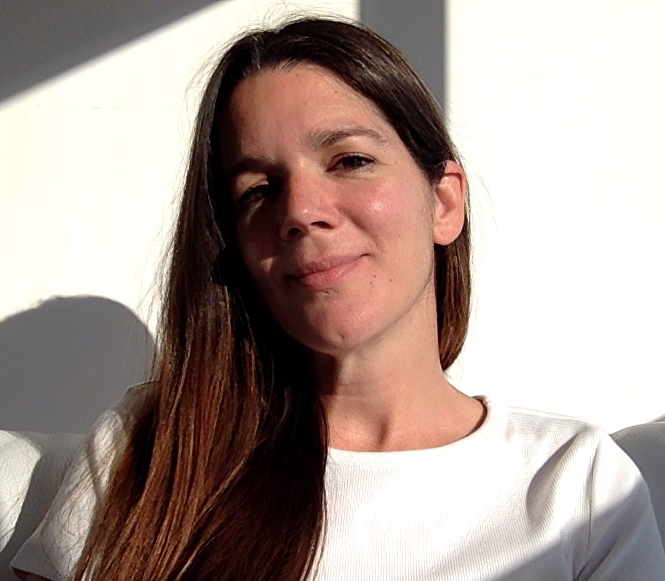
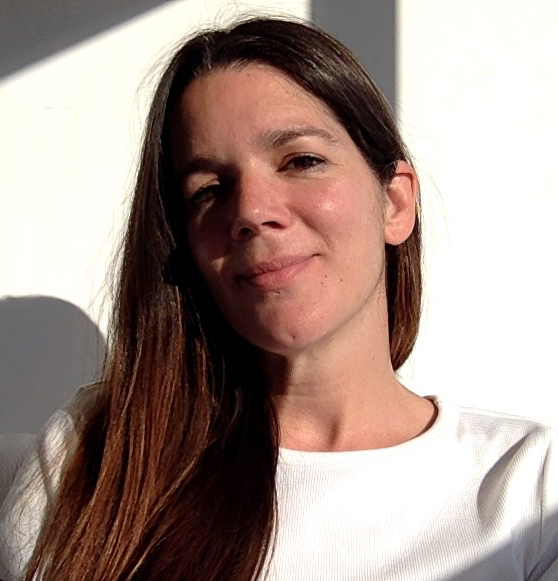
cambio foto mj

diff --git a/index.html b/index.html
@@ -47,25 +47,34 @@
         <article class="team wrapper">
           <h2 class="title-team">EQUIPO</h2>
           <p>
-            Nuestro espíritu indómito nos invita a salir de nuestra zona de confort para adentrarnos en este mundo de cambio constante y enfrentarnos a un reto nuevo cada día. Otros se sentirían incómodos en esta situación. Nosotras disfrutamos del camino.
+            Nuestro espíritu indómito nos invita a salir de nuestra zona de
+            confort para adentrarnos en este mundo de cambio constante y
+            enfrentarnos a un reto nuevo cada día. Otros se sentirían incómodos
+            en esta situación. Nosotras disfrutamos del camino.
           </p>
           <p>
-            Tenemos instinto y garra para darte justo lo que necesitas con la máxima innovación. 
+            Tenemos instinto y garra para darte justo lo que necesitas con la
+            máxima innovación.
           </p>
           <div class="bite"></div>
         </article>
-        
+
         <article class="strengths-weaknesses wrapper">
           <div class="strengths wrapper">
             <h3 class="title-secondary">Fortalezas</h3>
             <p>
-             Nuestras diferentes trayectorias nos convierten en un equipo multidisciplinar con una amplia riqueza de competencias. Tenemos pasión por generar nuevas ideas, propuestas y soluciones, ¡no le ponemos freno a la creatividad!
+              Nuestras diferentes trayectorias nos convierten en un equipo
+              multidisciplinar con una amplia riqueza de competencias. Tenemos
+              pasión por generar nuevas ideas, propuestas y soluciones, ¡no le
+              ponemos freno a la creatividad!
             </p>
           </div>
           <div class="weaknesses wrapper">
             <h3 class="title-secondary">Debilidades</h3>
             <p>
-              Puede que no tengamos aún mucha experiencia, pero si nos confías tu proyecto prometemos hacerlo con toda la dedicación y pasión del mundo y no pararemos hasta que quedes encantada/o.
+              Puede que no tengamos aún mucha experiencia, pero si nos confías
+              tu proyecto prometemos hacerlo con toda la dedicación y pasión del
+              mundo y no pararemos hasta que quedes encantada/o.
             </p>
           </div>
           <div id="who"></div>
@@ -79,38 +88,38 @@
             <img src="./images/Team/barbara.jpg" alt="foto barbara" />
           </div>
           <div class="info-container">
-          <h3 class="title-people">Bárbara Sacristán</h3>
-          <p>
-            Bárbara B. Sacristán, nacida en Tenerife y madrileña de adopción.
-            Soy técnica superior en Educación Infantil y estudiante de flauta
-            travesera, aunque toda mi experiencia laboral ha sido como comercial
-            y auxiliar administrativa. En mi tiempo libre, lo que más me gusta
-            es la música, estar con los míos y un buen libro.
-          </p>
-          <span class="sm">
-            <a
-              href="https://twitter.com/bbeatrizsi"
-              text="Twitter"
-              target="_blank"
-              ><i class="fab fa-twitter icons"></i
-            ></a>
-            <a
-              href="https://www.linkedin.com/in/bárbara-b-sacristán-ibáñez-26485b104/"
-              text="Linkedin"
-              target="_blank"
-              ><i class="fab fa-linkedin-in icons"></i
-            ></a>
-            <a
-              href="https://github.com/BbeatrizSI"
-              text="GitHub"
-              target="_blank"
-              ><i class="fab fa-github-alt icons"></i
-            ></a>
-            <a href="mailto:bbeatriz@gmail.com" text="Correo" target="_blank"
-              ><i class="fas fa-envelope icons"></i
-            ></a>
-          </span>
-        </div>
+            <h3 class="title-people">Bárbara Sacristán</h3>
+            <p>
+              Bárbara B. Sacristán, nacida en Tenerife y madrileña de adopción.
+              Soy técnica superior en Educación Infantil y estudiante de flauta
+              travesera, aunque toda mi experiencia laboral ha sido como
+              comercial y auxiliar administrativa. En mi tiempo libre, lo que
+              más me gusta es la música, estar con los míos y un buen libro.
+            </p>
+            <span class="sm">
+              <a
+                href="https://twitter.com/bbeatrizsi"
+                text="Twitter"
+                target="_blank"
+                ><i class="fab fa-twitter icons"></i
+              ></a>
+              <a
+                href="https://www.linkedin.com/in/bárbara-b-sacristán-ibáñez-26485b104/"
+                text="Linkedin"
+                target="_blank"
+                ><i class="fab fa-linkedin-in icons"></i
+              ></a>
+              <a
+                href="https://github.com/BbeatrizSI"
+                text="GitHub"
+                target="_blank"
+                ><i class="fab fa-github-alt icons"></i
+              ></a>
+              <a href="mailto:bbeatriz@gmail.com" text="Correo" target="_blank"
+                ><i class="fas fa-envelope icons"></i
+              ></a>
+            </span>
+          </div>
         </article>
 
         <article class="card right">
@@ -118,35 +127,39 @@
             <img src="./images/Team/elena.jpeg" alt="foto elena" />
           </div>
           <div class="info-container">
-          <h3 class="title-people">Elena Valenzuela</h3>
-          <p>
-            ¡Hola, soy Elena!, pero puedes llamarme Hel, Lenú o como prefieras.
-            De Sevilla y más rica gracias a mi paso por Barcelona, China y
-            Madrid. Ex marketeer y actual estudiante front-end motivada. Me
-            gustan el deporte y los helados a partes iguales, menos mal...
-          </p>
-          <span class="sm">
-            <a href="https://twitter.com/" text="Twitter" target="_blank"
-              ><i class="fab fa-twitter icons"></i
-            ></a>
-            <a
-              href="https://www.linkedin.com/in/elena-valenzuela-guerrero/
+            <h3 class="title-people">Elena Valenzuela</h3>
+            <p>
+              ¡Hola, soy Elena!, pero puedes llamarme Hel, Lenú o como
+              prefieras. De Sevilla y más rica gracias a mi paso por Barcelona,
+              China y Madrid. Ex marketeer y actual estudiante front-end
+              motivada. Me gustan el deporte y los helados a partes iguales,
+              menos mal...
+            </p>
+            <span class="sm">
+              <a href="https://twitter.com/" text="Twitter" target="_blank"
+                ><i class="fab fa-twitter icons"></i
+              ></a>
+              <a
+                href="https://www.linkedin.com/in/elena-valenzuela-guerrero/
               "
-              text="Linkedin"
-              target="_blank"
-              ><i class="fab fa-linkedin-in icons"></i
-            ></a>
-            <a href="https://github.com/elevalgue" text="GitHub" target="_blank"
-              ><i class="fab fa-github-alt icons"></i
-            ></a>
-            <a
-              href="mailto:elena.valenzuela.guerrero@gmail.com"
-              text="Correo"
-              target="_blank"
-              ><i class="fas fa-envelope icons"></i
-            ></a>
-          </span>
-        </div>
+                text="Linkedin"
+                target="_blank"
+                ><i class="fab fa-linkedin-in icons"></i
+              ></a>
+              <a
+                href="https://github.com/elevalgue"
+                text="GitHub"
+                target="_blank"
+                ><i class="fab fa-github-alt icons"></i
+              ></a>
+              <a
+                href="mailto:elena.valenzuela.guerrero@gmail.com"
+                text="Correo"
+                target="_blank"
+                ><i class="fas fa-envelope icons"></i
+              ></a>
+            </span>
+          </div>
         </article>
 
         <article class="card left">
@@ -154,34 +167,34 @@
             <img src="./images/Team/maria-ozamiz.jpg" alt="foto maria" />
           </div>
           <div class="info-container">
-          <h3 class="title-people">María Ozámiz</h3>
-          <p>
-            Estudiante de front-end con 8 años de experiencia en arte
-            contemporáneo y museos. Actualmente resido en Vigo (según algunos,
-            la mejor ciudad del mundo). Lo que más me gusta es jugar al Rayman
-            Legends.
-          </p>
-          <span class="sm">
-            <a href="https://twitter.com/" text="Twitter" target="_blank"
-              ><i class="fab fa-twitter icons"></i
-            ></a>
-            <a
-              href="https://www.linkedin.com/in/mariaozamiz"
-              text="Linkedin"
-              target="_blank"
-              ><i class="fab fa-linkedin-in icons"></i
-            ></a>
-            <a
-              href="https://github.com/mariaozamiz"
-              text="GitHub"
-              target="_blank"
-              ><i class="fab fa-github-alt icons"></i
-            ></a>
-            <a href="mailto:ozamiz.m@gmail.com" text="Correo" target="_blank"
-              ><i class="fas fa-envelope icons"></i
-            ></a>
-          </span>
-        </div>
+            <h3 class="title-people">María Ozámiz</h3>
+            <p>
+              Estudiante de front-end con 8 años de experiencia en arte
+              contemporáneo y museos. Actualmente resido en Vigo (según algunos,
+              la mejor ciudad del mundo). Lo que más me gusta es jugar al Rayman
+              Legends.
+            </p>
+            <span class="sm">
+              <a href="https://twitter.com/" text="Twitter" target="_blank"
+                ><i class="fab fa-twitter icons"></i
+              ></a>
+              <a
+                href="https://www.linkedin.com/in/mariaozamiz"
+                text="Linkedin"
+                target="_blank"
+                ><i class="fab fa-linkedin-in icons"></i
+              ></a>
+              <a
+                href="https://github.com/mariaozamiz"
+                text="GitHub"
+                target="_blank"
+                ><i class="fab fa-github-alt icons"></i
+              ></a>
+              <a href="mailto:ozamiz.m@gmail.com" text="Correo" target="_blank"
+                ><i class="fas fa-envelope icons"></i
+              ></a>
+            </span>
+          </div>
         </article>
 
         <article class="card right">
@@ -189,31 +202,34 @@
             <img src="./images/Team/mariajo.jpg" alt="foto mj" />
           </div>
           <div class="info-container">
-          <h3 class="title-people">María José Plaza</h3>
-          <p>
-            Extremeña afincada en Mallorca ;) Licenciada
-            en Comunicación Audiovisual con experiencia en producción audiovisual pero
-            más recientemente en RRHH. Lo que más me gusta es la música y la
-            comida.
-          </p>
-          <span class="sm">
-            <a href="https://twitter.com/" text="Twitter" target="_blank"
-              ><i class="fab fa-twitter icons"></i
-            ></a>
-            <a
-              href="https://www.linkedin.com/in/mariajops"
-              text="Linkedin"
-              target="_blank"
-              ><i class="fab fa-linkedin-in icons"></i
-            ></a>
-            <a href="https://github.com/mariajop" text="GitHub" target="_blank"
-              ><i class="fab fa-github-alt icons"></i
-            ></a>
-            <a href="mailto:mariajops@gmail.com" text="Correo" target="_blank"
-              ><i class="fas fa-envelope icons"></i
-            ></a>
-          </span>
-        </div>
+            <h3 class="title-people">María José Plaza</h3>
+            <p>
+              Extremeña afincada en Mallorca, licenciada en Comunicación
+              Audiovisual. Con experiencia en producción y edición de vídeo,
+              aunque más recientemente en RRHH y ahora estudiante de front-end.
+              Lo que más me gusta es la música y la comida.
+            </p>
+            <span class="sm">
+              <a href="https://twitter.com/" text="Twitter" target="_blank"
+                ><i class="fab fa-twitter icons"></i
+              ></a>
+              <a
+                href="https://www.linkedin.com/in/mariajops"
+                text="Linkedin"
+                target="_blank"
+                ><i class="fab fa-linkedin-in icons"></i
+              ></a>
+              <a
+                href="https://github.com/mariajop"
+                text="GitHub"
+                target="_blank"
+                ><i class="fab fa-github-alt icons"></i
+              ></a>
+              <a href="mailto:mariajops@gmail.com" text="Correo" target="_blank"
+                ><i class="fas fa-envelope icons"></i
+              ></a>
+            </span>
+          </div>
         </article>
 
         <article class="card left">
@@ -221,45 +237,44 @@
             <img src="./images/Team/sandra.png" alt="foto sandra" />
           </div>
           <div class="info-container">
-          <h3 class="title-people">Sandra Tapia</h3>
-          <p>
-            Me llamo Sandra y soy de Madrid, siempre he vivido aquí. Estudié
-            Comercio Internacional, he trabajado en los Departamentos de
-            Importación y Compras de diferentes empresas. Me encanta nadar,
-            bucear, reirme, escuchar música y me apasiona el helado de chocolate
-            :)
-          </p>
-          <span class="sm">
-            <a href="https://twitter.com/" text="Twitter" target="_blank"
-              ><i class="fab fa-twitter icons"></i
-            ></a>
-            <a
-              href="https://www.linkedin.com/in/sandra-tapia-nieto-88a174106/"
-              text="Linkedin"
-              target="_blank"
-              ><i class="fab fa-linkedin-in icons"></i
-            ></a>
-            <a
-              href="https://github.com/sandra1894"
-              text="GitHub"
-              target="_blank"
-              ><i class="fab fa-github-alt icons"></i
-            ></a>
-            <a
-              href="mailto:sandritant62
+            <h3 class="title-people">Sandra Tapia</h3>
+            <p>
+              Me llamo Sandra y soy de Madrid, siempre he vivido aquí. Estudié
+              Comercio Internacional, he trabajado en los Departamentos de
+              Importación y Compras de diferentes empresas. Me encanta nadar,
+              bucear, reirme, escuchar música y me apasiona el helado de
+              chocolate :)
+            </p>
+            <span class="sm">
+              <a href="https://twitter.com/" text="Twitter" target="_blank"
+                ><i class="fab fa-twitter icons"></i
+              ></a>
+              <a
+                href="https://www.linkedin.com/in/sandra-tapia-nieto-88a174106/"
+                text="Linkedin"
+                target="_blank"
+                ><i class="fab fa-linkedin-in icons"></i
+              ></a>
+              <a
+                href="https://github.com/sandra1894"
+                text="GitHub"
+                target="_blank"
+                ><i class="fab fa-github-alt icons"></i
+              ></a>
+              <a
+                href="mailto:sandritant62
             @gmail.com"
-              text="Correo"
-              target="_blank"
-              ><i class="fas fa-envelope icons"></i
-            ></a>
-          </span>
-        </div>
+                text="Correo"
+                target="_blank"
+                ><i class="fas fa-envelope icons"></i
+              ></a>
+            </span>
+          </div>
         </article>
       </section>
     </main>
 
     <footer class="main-footer wrapper">
-
       <h4 class="copyright">Savages ©2020</h4>
 
       <ul class="footer-links">
